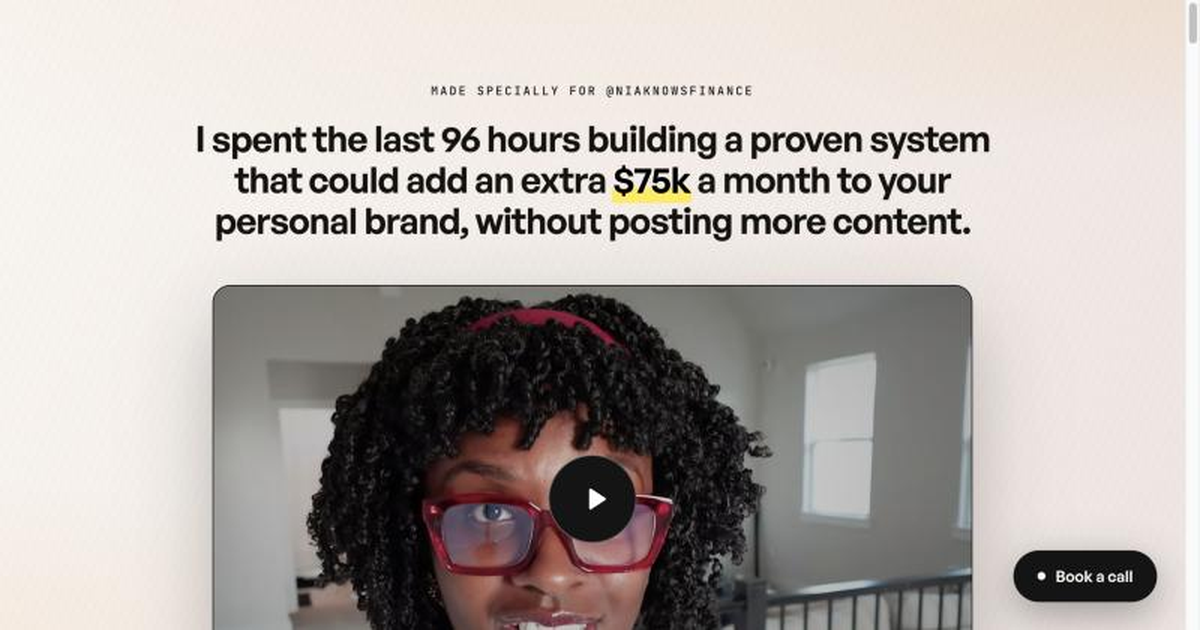
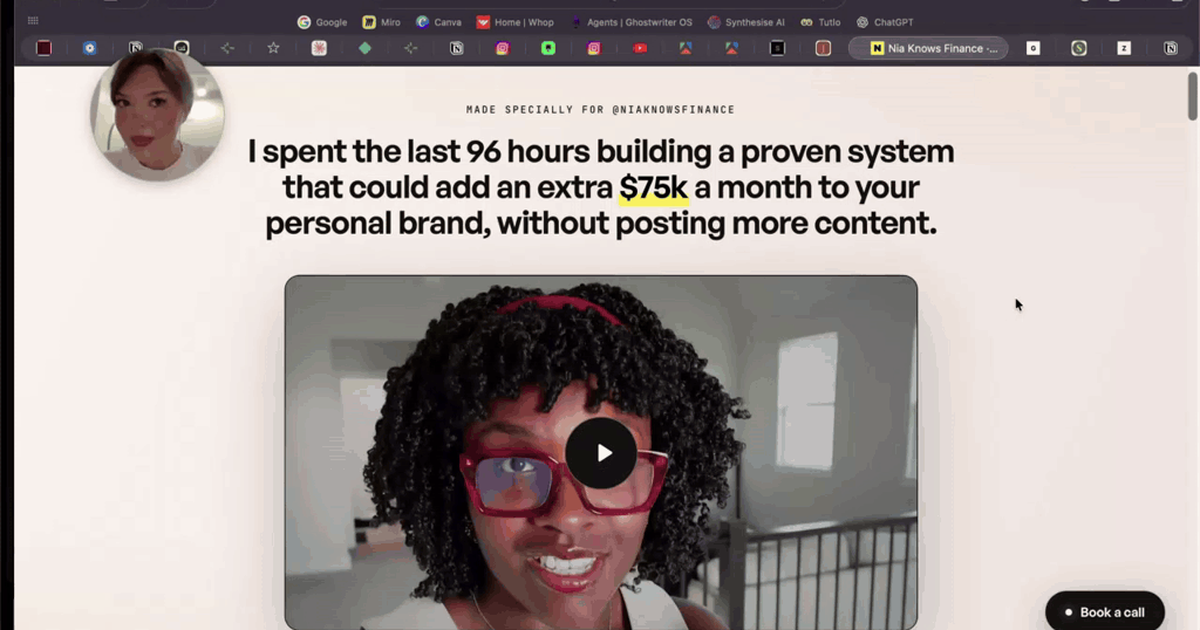
Link preview shows the Loom recording; fix Loom per prospect

diff --git a/index.html b/index.html
@@ -8,14 +8,14 @@
   <meta name="robots" content="noindex" />
   <meta property="og:title" content="Nia, adding an extra $75k a month to your personal brand" />
   <meta property="og:description" content="Nia, adding an extra $75k a month to your personal brand" />
-  <meta property="og:image" content="https://nikola424.github.io/for-niaknowsfinance/og.png?v=1" />
+  <meta property="og:image" content="https://nikola424.github.io/for-niaknowsfinance/og.png?v=loom1" />
   <meta property="og:image:width" content="1200" />
   <meta property="og:image:height" content="630" />
   <meta property="og:url" content="https://nikola424.github.io/for-niaknowsfinance/" />
   <meta property="og:type" content="website" />
   <meta name="twitter:card" content="summary_large_image" />
   <meta name="twitter:title" content="Nia, adding an extra $75k a month to your personal brand" />
-  <meta name="twitter:image" content="https://nikola424.github.io/for-niaknowsfinance/og.png?v=1" />
+  <meta name="twitter:image" content="https://nikola424.github.io/for-niaknowsfinance/og.png?v=loom1" />
   <!-- Generated per build from the PROSPECT'S logo: node scripts/make_favicon.js {folder} -->
   <link rel="icon" href="assets/img/favicon.png" type="image/png" />
   <link rel="apple-touch-icon" href="assets/img/apple-touch-icon.png" />
@@ -34,7 +34,7 @@
        caseStudies : optional. [{ youtube: "VIDEO_ID" | image: "path", result: "$48k in 30 days", title: "...", text: "..." }]
     ============================================================================== */
     window.PITCH_CONFIG = {
-      heroEmbed: "https://www.loom.com/share/05c96a93f658416da692066369ced7bf",
+      heroEmbed: "https://www.loom.com/share/849af4f74d6c4b33a97cfea01bbf4da6",
       calendly: "https://calendly.com/nikola-monetisebetter/discovery",
       mode: (new URLSearchParams(location.search).get("mode") || "funnel"),
       brand: { logo: "", name: "", url: "", footer: "" },
